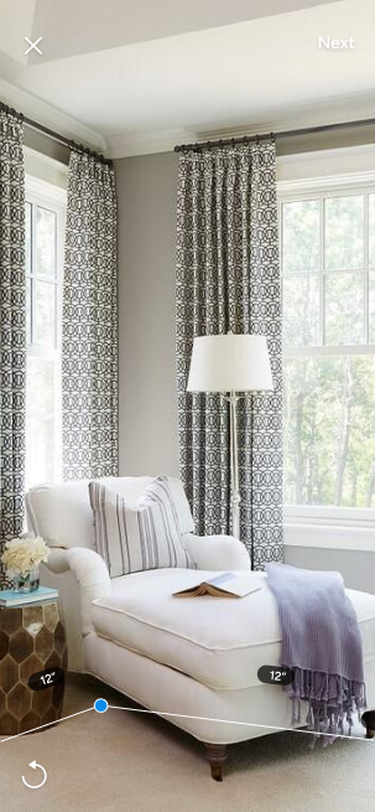
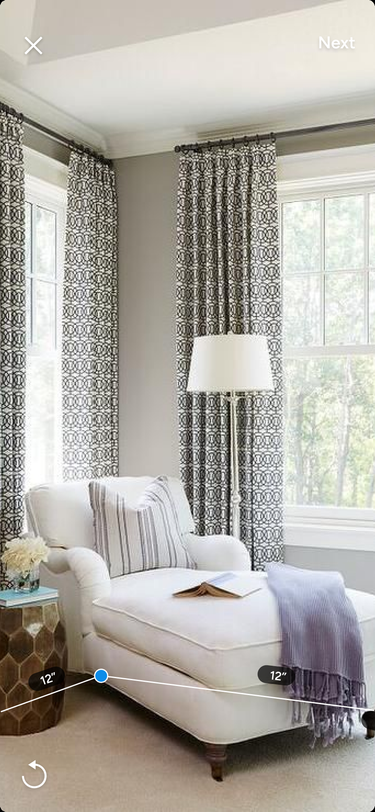
Swap the 'Close at the start point' frame for the closed-shape screen

diff --git a/work/multi-room-mobile-scan.html b/work/multi-room-mobile-scan.html
@@ -497,7 +497,7 @@
     <figure><img src="../media/multi-room/floor-plans-list-clean.png" alt="The 3D Floor Plans list with a Start Scanning button" width="375" height="812"><figcaption class="mrx-cap">Start scanning</figcaption></figure>
     <figure><img src="../media/multi-room/scan.png?v=3" alt="Camera view prompting the pro to tilt the device slowly to scan the floor" width="375" height="812"><figcaption class="mrx-cap">Detect the floor</figcaption></figure>
     <figure><img src="../media/multi-room/place-corner-points.png" alt="Placing a corner point on the floor in camera view" width="375" height="812"><figcaption class="mrx-cap">Place corner points</figcaption></figure>
-    <figure><img src="../media/multi-room/close-shape.png" alt="Closing the room shape back at the starting point" width="375" height="812"><figcaption class="mrx-cap">Close at the start point</figcaption></figure>
+    <figure><img src="../media/multi-room/close-shape.png?v=2" alt="The closed room shape with its wall dimensions shown over the camera view" width="375" height="812"><figcaption class="mrx-cap">Close at the start point</figcaption></figure>
     <figure><img src="../media/multi-room/ready-floor-plan.png" alt="The completed single-room plan with dimensions" width="375" height="812"><figcaption class="mrx-cap">Room complete</figcaption></figure>
   </div>
 </section>
